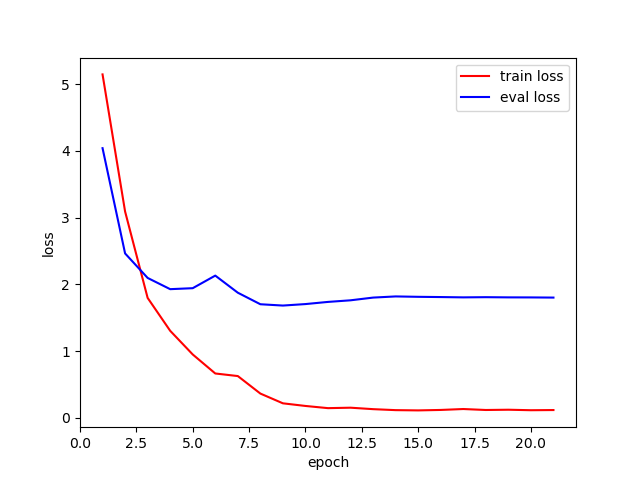
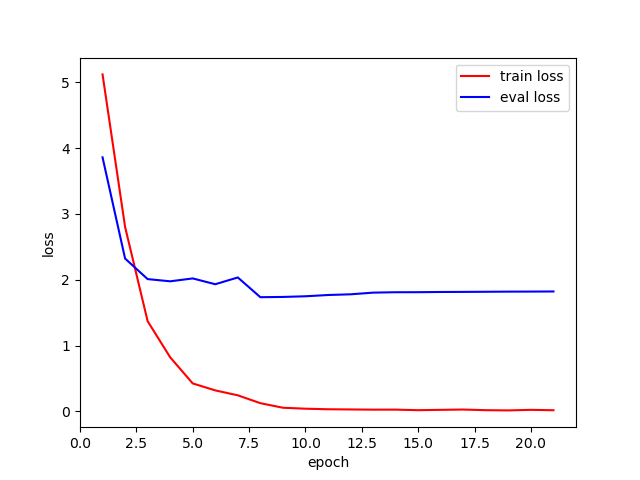
水平翻轉

diff --git a/hw2.py b/hw2.py
@@ -62,13 +62,14 @@ data_transforms = {
             # torchvision.transforms.RandomHorizontalFlip(p=0.5),
             # torchvision.transforms.RandomRotation(20),
 
-            transforms.RandomChoice([
-              transforms.RandomHorizontalFlip(p=0.5),
-              transforms.RandomVerticalFlip(p=0.5),
-              transforms.RandomRotation(180),
-            ]),
-            transforms.CenterCrop((480,480)),
+            # transforms.RandomChoice([
+            #   transforms.RandomHorizontalFlip(p=0.5),
+            #   transforms.RandomVerticalFlip(p=0.5),
+            #   transforms.RandomRotation(180),
+            # ]),
+            # transforms.CenterCrop((480,480)),
             transforms.Resize((224,224) ),
+            transforms.RandomHorizontalFlip(),
 
             # torchvision.transforms.RandomHorizontalFlip(p=0.5),
             # torchvision.transforms.RandomVerticalFlip(p=0.5),
